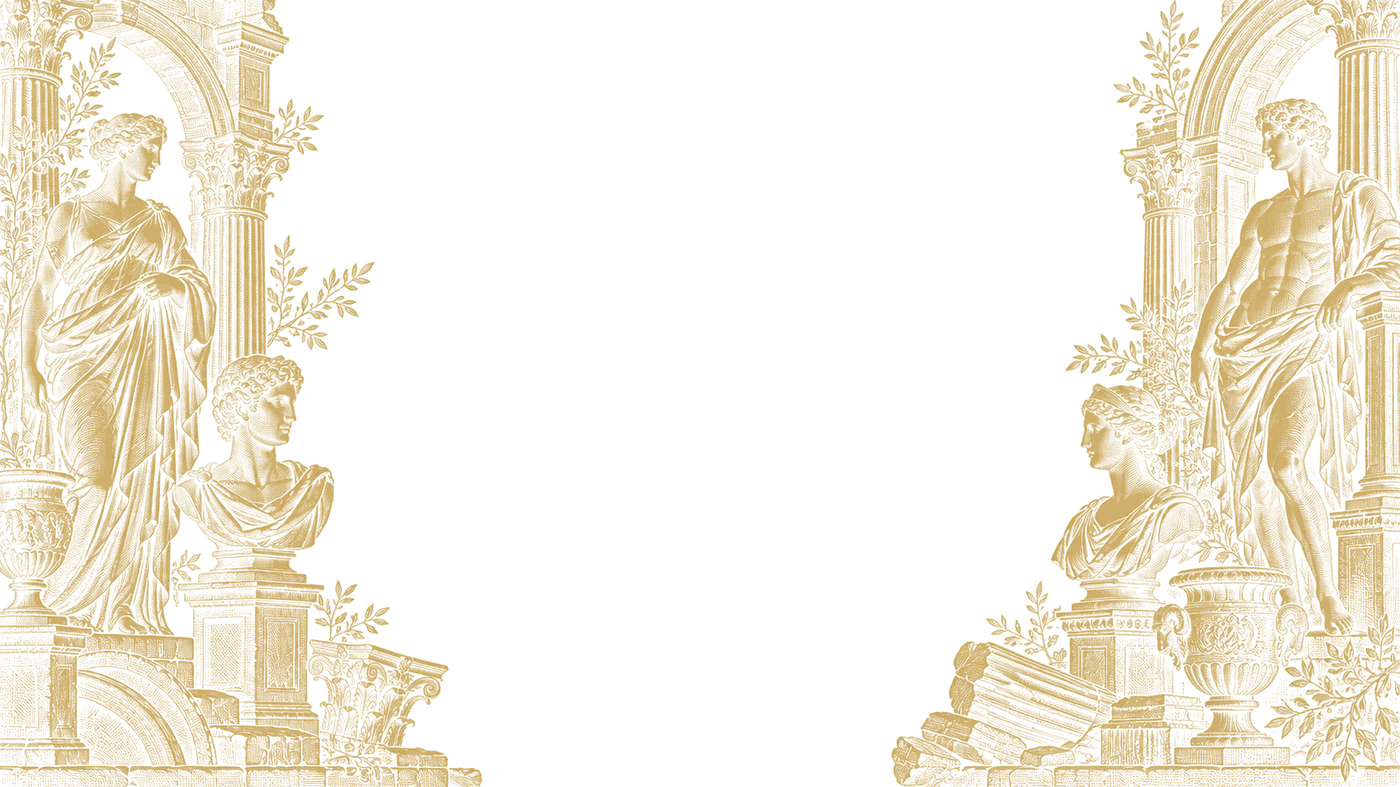
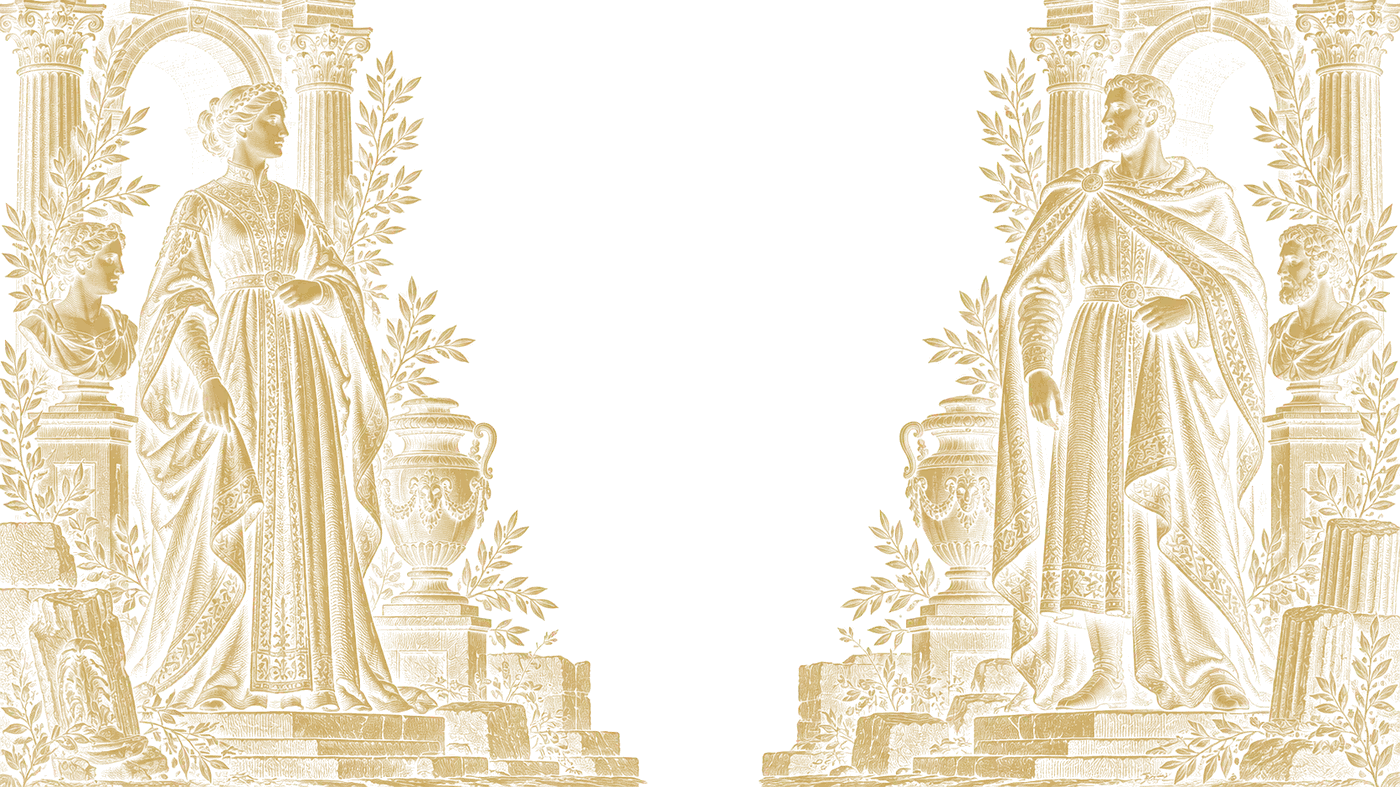
Para quem é: nova gravura com estátuas de mulher e homem bem vestidos
Claude-Session: https://claude.ai/code/session_018ckGgeLrJeXv2UHJFd83h8

diff --git a/src/app/globals.css b/src/app/globals.css
@@ -2103,7 +2103,7 @@ body.menu-open { overflow: hidden; }
   -webkit-mask-image: radial-gradient(ellipse 62% 58% at 50% 52%, rgba(0, 0, 0, 0.5), #000 85%);
   mask-image: radial-gradient(ellipse 62% 58% at 50% 52%, rgba(0, 0, 0, 0.5), #000 85%);
 }
-.forwhom-section::before { background-image: url("/images/bg-statues.webp"); opacity: 0.085; }
+.forwhom-section::before { background-image: url("/images/bg-statues.webp"); opacity: 0.1; }
 .final-section::before {
   background-image: url("/images/bg-map-dark.webp");
   background-size: 250% auto;
